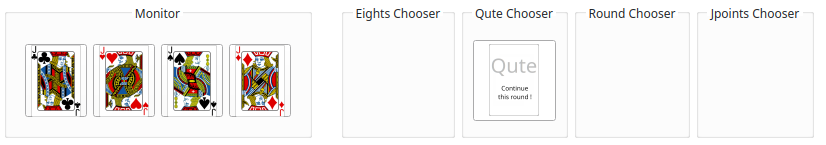
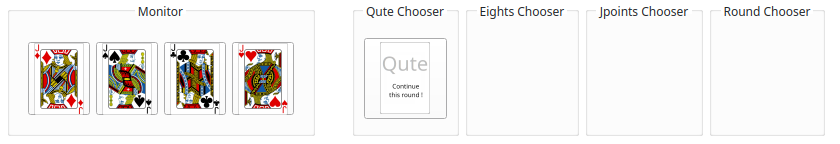
README.md modified and Help via F1 added
better AI for Robot Players

diff --git a/table.cpp b/table.cpp
@@ -220,7 +220,6 @@ void Table::keyPressEvent(QKeyEvent* event)
 {
     if (event->key() == Qt::Key_V) {
         isCardFaceVisible_ = !isCardFaceVisible_;
-        qDebug() << "isCardFaceVisible:" << isCardFaceVisible_;
         emit toggleIsCardFaceVisible(isCardFaceVisible_);
     }
 
@@ -236,17 +235,20 @@ void Table::keyPressEvent(QKeyEvent* event)
         game_->player->handdeck()->sortCards(Handdeck::SortOption::Suit);
     }
 
-    if (event->key() == Qt::Key_1) {
+    if (event->key() == Qt::Key_0) {
         game_->player->handdeck()->sortCardsByPattern(0);
     }
     if (event->key() == Qt::Key_1) {
         game_->player->handdeck()->sortCardsByPattern(1);
     }
-    if (event->key() == Qt::Key_1) {
+    if (event->key() == Qt::Key_2) {
         game_->player->handdeck()->sortCardsByPattern(2);
     }
-    if (event->key() == Qt::Key_1) {
+    if (event->key() == Qt::Key_3) {
         game_->player->handdeck()->sortCardsByPattern(3);
+    }
+    if (event->key() == Qt::Key_4) {
+        game_->player->handdeck()->sortCardsByPattern(4);
     }
 
     if (event->key() == Qt::Key_F) {

diff --git a/cardvec.cpp b/cardvec.cpp
@@ -137,11 +137,11 @@ QString CardVec::mostCommonSuit() const
 void CardVec::sortCardsByPattern(int pattern)
 {
     const std::vector<std::vector<QString>> patterns
-        = {{"6", "A", "J", "K", "Q", "10", "8", "7", "9"},
-           {"6", "A", "K", "Q", "10", "8", "7", "9", "J"},
+        = {{"9", "7", "8", "10", "Q", "K", "J", "A", "6"},
            {"J", "9", "7", "8", "10", "Q", "K", "A", "6"},
-           {"J", "A", "K", "Q", "10", "9", "8", "7", "6"},
-           {"9", "8", "7", "6", "10", "Q", "K", "A", "J"}};
+           {"6", "A", "K", "Q", "10", "8", "7", "9", "J"},
+           {"6", "7", "8", "9", "10", "Q", "K", "A", "J"},
+           {"J", "A", "K", "Q", "10", "6", "7", "8", "9"}};
 
     if (pattern < 0 || pattern >= patterns.size()) {
         qWarning() << "Invalid pattern index.";

diff --git a/game.cpp b/game.cpp
@@ -682,9 +682,8 @@ void Game::autoplay()
     if (player->isRobot() && !roundChooser()->isEnabled()) {
         player->handdeck()->setEnabled(true);
 
-        // updatePlayable();
-
         while (!isNextPlayerPossible() || !playable()->cards().isEmpty()) {
+            player->handdeck()->sortCardsByPattern(1);
             for (auto& card : playable()->cards()) {
                 for (auto& card : player->handdeck()->cards()) {
                     card->click();
